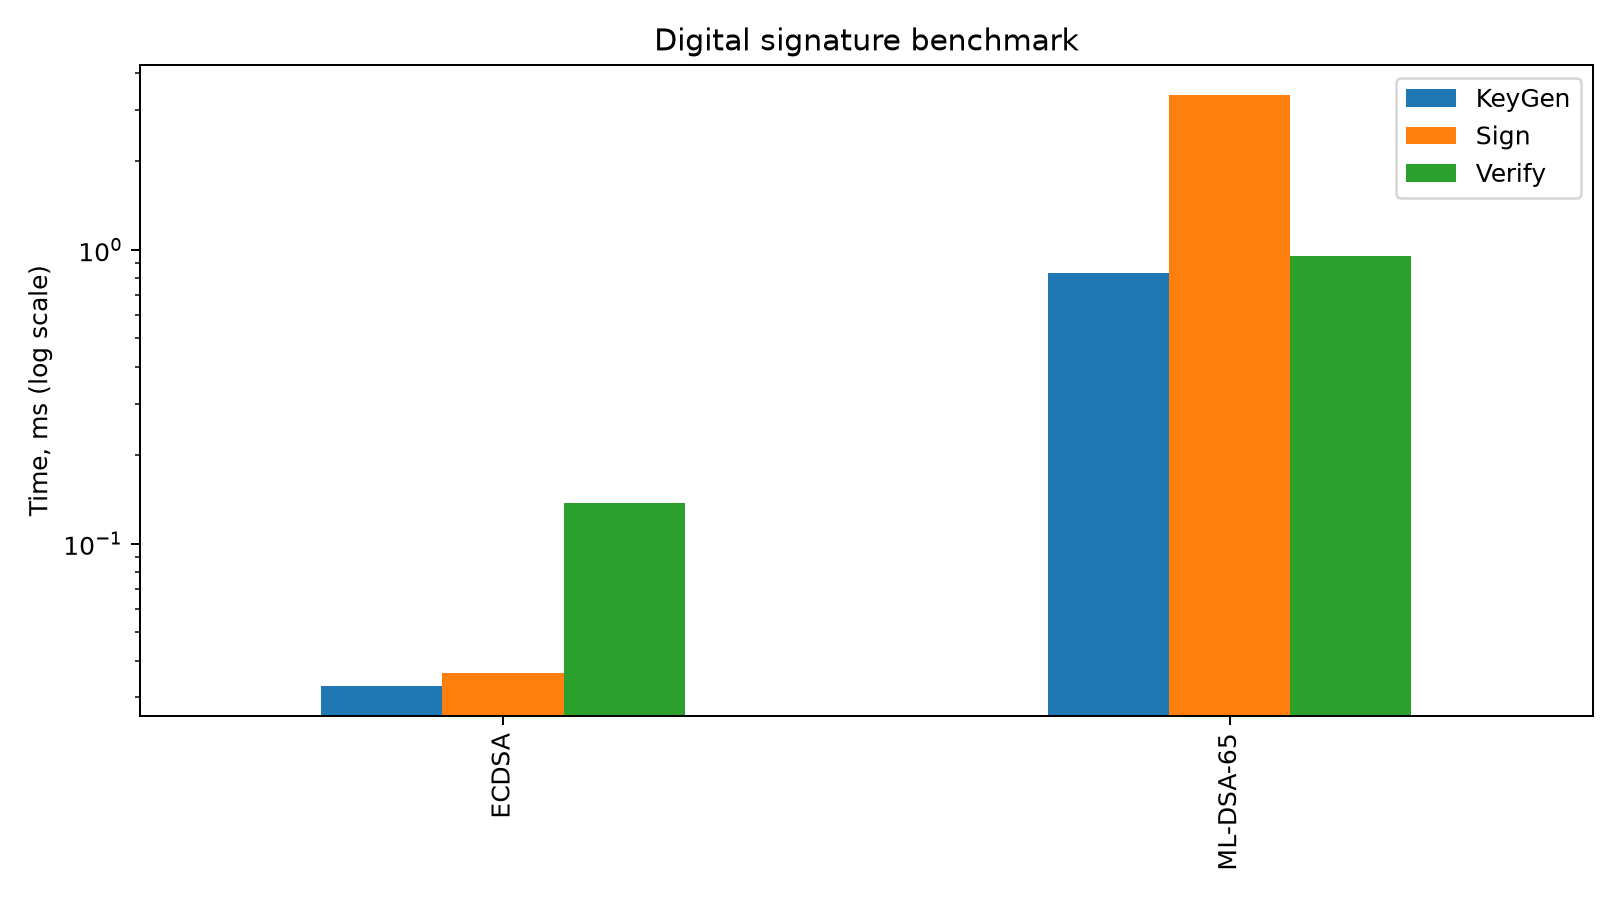
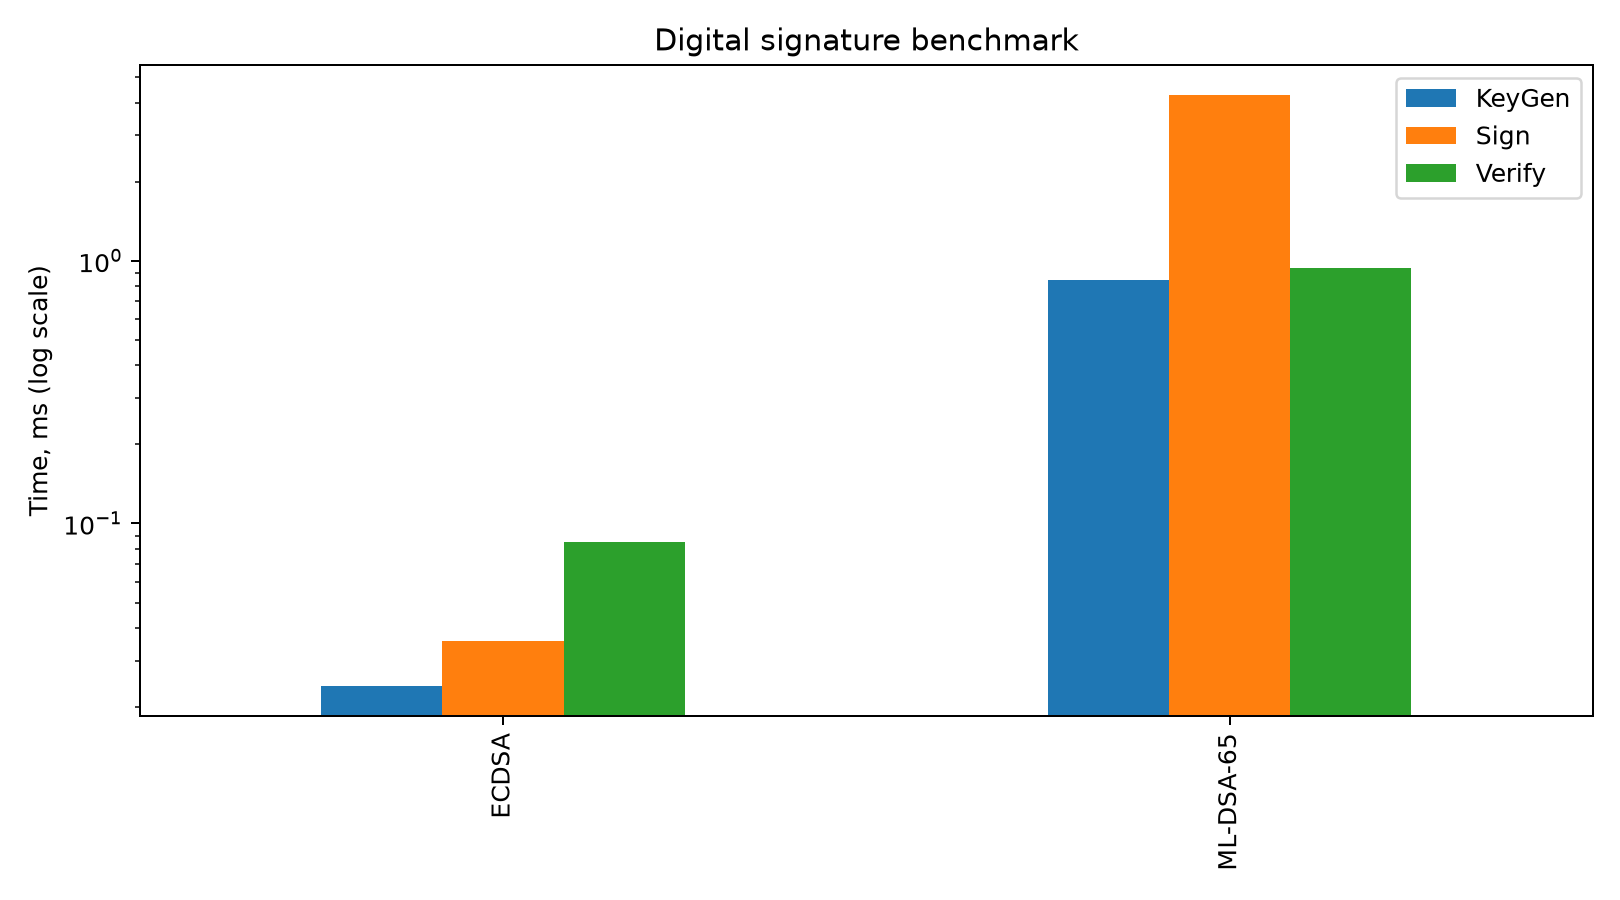
Add files via upload

diff --git a/results/report.md b/results/report.md
@@ -1,0 +1,38 @@
+# Automated experiment report
+
+- Timestamp UTC: 20261010T184948Z
+- Independent benchmark series per algorithm: 2
+- ECDSA repetitions per operation and series: 10
+- ML-DSA-65 repetitions per operation and series: 30
+- Timings are means returned by the existing benchmark functions.
+- Raw files preserve each independent series result, not each individual operation timing.
+
+## Signature timing statistics
+
+| Algorithm | Metric | Mean (ms) | Sample SD | 95% CI |
+|---|---|---:|---:|---:|
+| ECDSA | keygen_ms | 0.024040 | 0.000141 | [0.022769, 0.025311] |
+| ECDSA | sign_ms | 0.035585 | 0.000332 | [0.032599, 0.038571] |
+| ECDSA | verify_ms | 0.084720 | 0.001047 | [0.075318, 0.094122] |
+| ML-DSA-65 | keygen_ms | 0.843132 | 0.011651 | [0.738455, 0.947808] |
+| ML-DSA-65 | sign_ms | 4.278590 | 0.403230 | [0.655771, 7.901409] |
+| ML-DSA-65 | verify_ms | 0.941610 | 0.023410 | [0.731283, 1.151937] |
+
+## Other experiments and checks
+
+- Grover circuit simulation: OK; timestamped CSV copy: results\raw\grover_circuit_20261010T184948Z.csv
+- Pytest exit code: 0; log: results\logs\pytest_20261010T184948Z.txt
+- Grover complexity model is analytical, not a measured cryptographic runtime.
+- Signature overhead is a data-size model, not a network measurement.
+
+## Output locations
+
+- Raw series: results/raw/
+- Aggregate benchmark input: data/signature_benchmark.csv
+- Statistics: results\tables\signature_benchmark_statistics.csv
+- Figures and summary table: results/figures/ and results/tables/
+- Logs and environment: results/logs/
+
+## Limitations
+
+Timing depends on hardware, operating system, library builds, and system load. These results describe this implementation and environment only. The Grover experiment is a small toy simulation, not a break of real cryptography.
